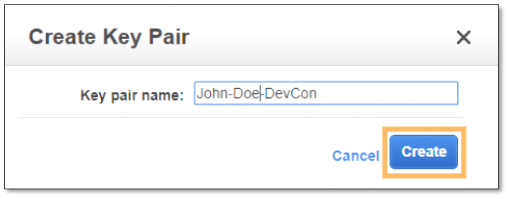
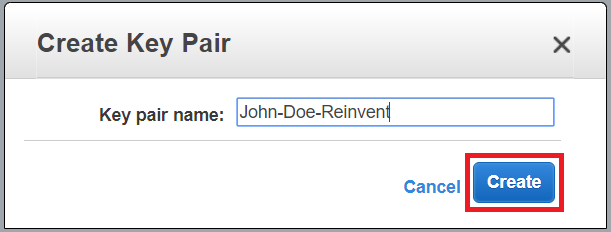
Updated instructions for lab2

diff --git a/lab2-elk-cloudfront-log-analysis/README.md b/lab2-elk-cloudfront-log-analysis/README.md
@@ -8,7 +8,7 @@ In this lab, you will be building an ELK (ElasticSearch, Logstash and Kibana) st
 
 Logstash provides out-of-the box plugins such as [grok](https://www.elastic.co/guide/en/logstash/6.4/plugins-filters-grok.html) for filtering and enriching the data, derives [geo coordinates from Ip addresses](https://www.elastic.co/guide/en/logstash/6.4/plugins-filters-geoip.html) before ingesting the data to ElasticSearch domain.  Kibana provides a broad set of visualization, filtering and aggregation options to analyze your data that is stored in ElasticSearch domain.
 
-In this lab, you will visualize CloudFront access behavior using Kibana Geo-spatial visualization options such as [Regional](https://www.elastic.co/guide/en/kibana/current/regionmap.html) and [Coordinate graphs](https://www.elastic.co/guide/en/kibana/current/tilemap.html). These maps can
+In this lab, you will visualize CloudFront access behavior using Kibana Geo-spatial visualization options such as [Regional](https://www.elastic.co/guide/en/kibana/current/regionmap.html) and [Coordinate graphs](https://www.elastic.co/guide/en/kibana/current/tilemap.html). These maps can provide nice insights about your customer behaviour as well as latency information of your CloudFront distribution for various geo locations.
 
 Note: We will use a sample access logs generated from our demo environment. In a production scenario, you can just change the Logstash configuration to poll the logs from your S3 bucket or configure CloudFront distribution logs to deliver the bucket used in this Lab.
 
@@ -37,7 +37,7 @@ In this task, you will need to create a key pair so that we can use this keypair
 
 ![](assets/keyPair2.png)
 
-5. In the resulting pop up window, type **_[First Name]-[Last Name]-DevCon_** into the **Key Pair Name:** text box and click **Create.**
+5. In the resulting pop up window, type **_[First Name]-[Last Name]-Reinvent_** into the **Key Pair Name:** text box and click **Create.**
 
 ![](assets/keyPair3.png)
 
@@ -190,13 +190,14 @@ In this step we will configure Logstash agent installed on EC2 instance to inges
 		}
 	}
 	```
-8. Start Logstash process
+8. Start Logstash process. Logstash will take about 8-10 minutes to index the logs to Amazon Elasticsearch.
 	```bash
 	cd /elk/logstash-6.4.2/bin/
 	nohup ./logstash -f cloudfront.conf
 	
 	```
-9. Check if Logstash process started properly by opening another SSH session and tailing the log file. This process can take around 8-10 minutes.
+9. You can also verify if the Logstash process started properly by opening another SSH session and tailing the log file as shown below. 
+   **NOTE:** You will see some errors related to installing templates in logstash logs. This is due to a known issue (https://github.com/awslabs/logstash-output-amazon_es/issues/101 -link to github). You  can ignore them.
 
 	```bash
 	tail -f /elk/logstash-6.4.2/logs/logstash-plain.log
@@ -220,7 +221,7 @@ It should be noted that Kibana does not natively support IAM users and roles, bu
 
 2. Connect to Nginx proxy EC2 instance as ec2-user using your key pair.
 	```bash
-	ssh -i dub.pem ec2-user@<Elastic IP of Nginx EC2 server>
+	ssh -i <your pem file> ec2-user@<Elastic IP of Nginx EC2 server>
 	```
 
 3. Copy **lab2-nginx.conf** from **/home/ec2-user/templates/**. You will need to update the conf file with your Elasticsearch domain endpoints, Elasticsearch Kibana endpoint and Elastic IPs.
